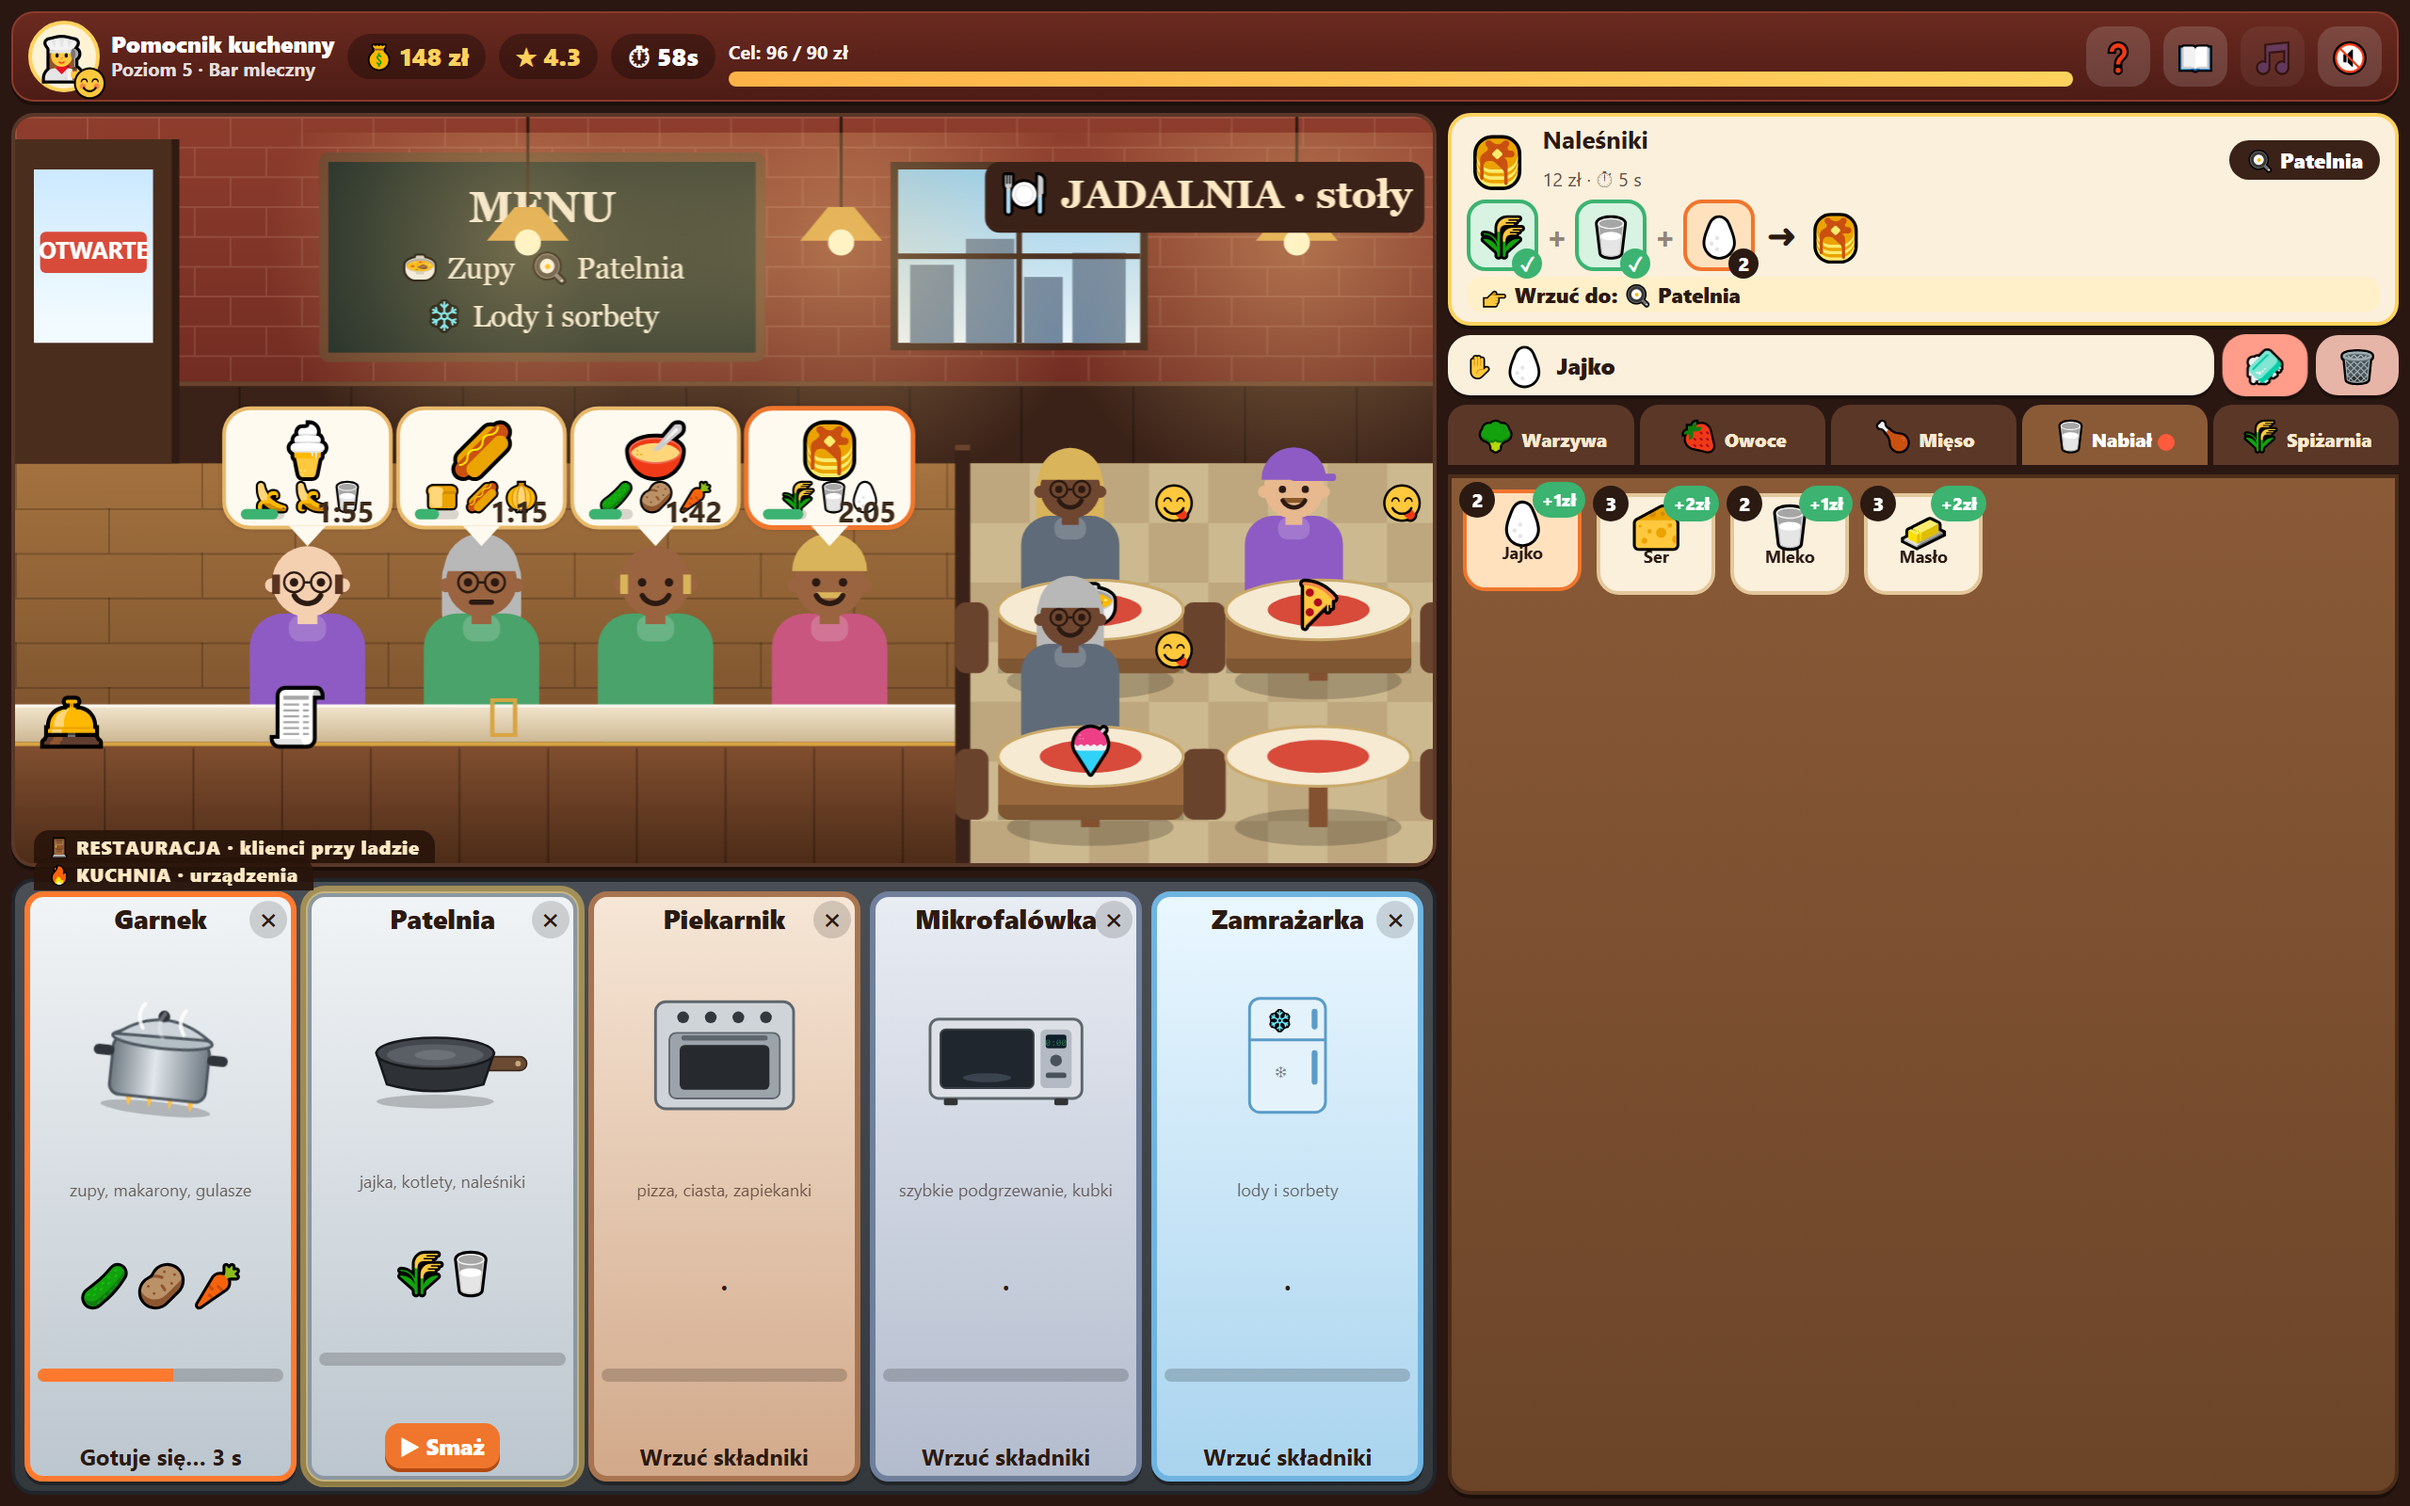
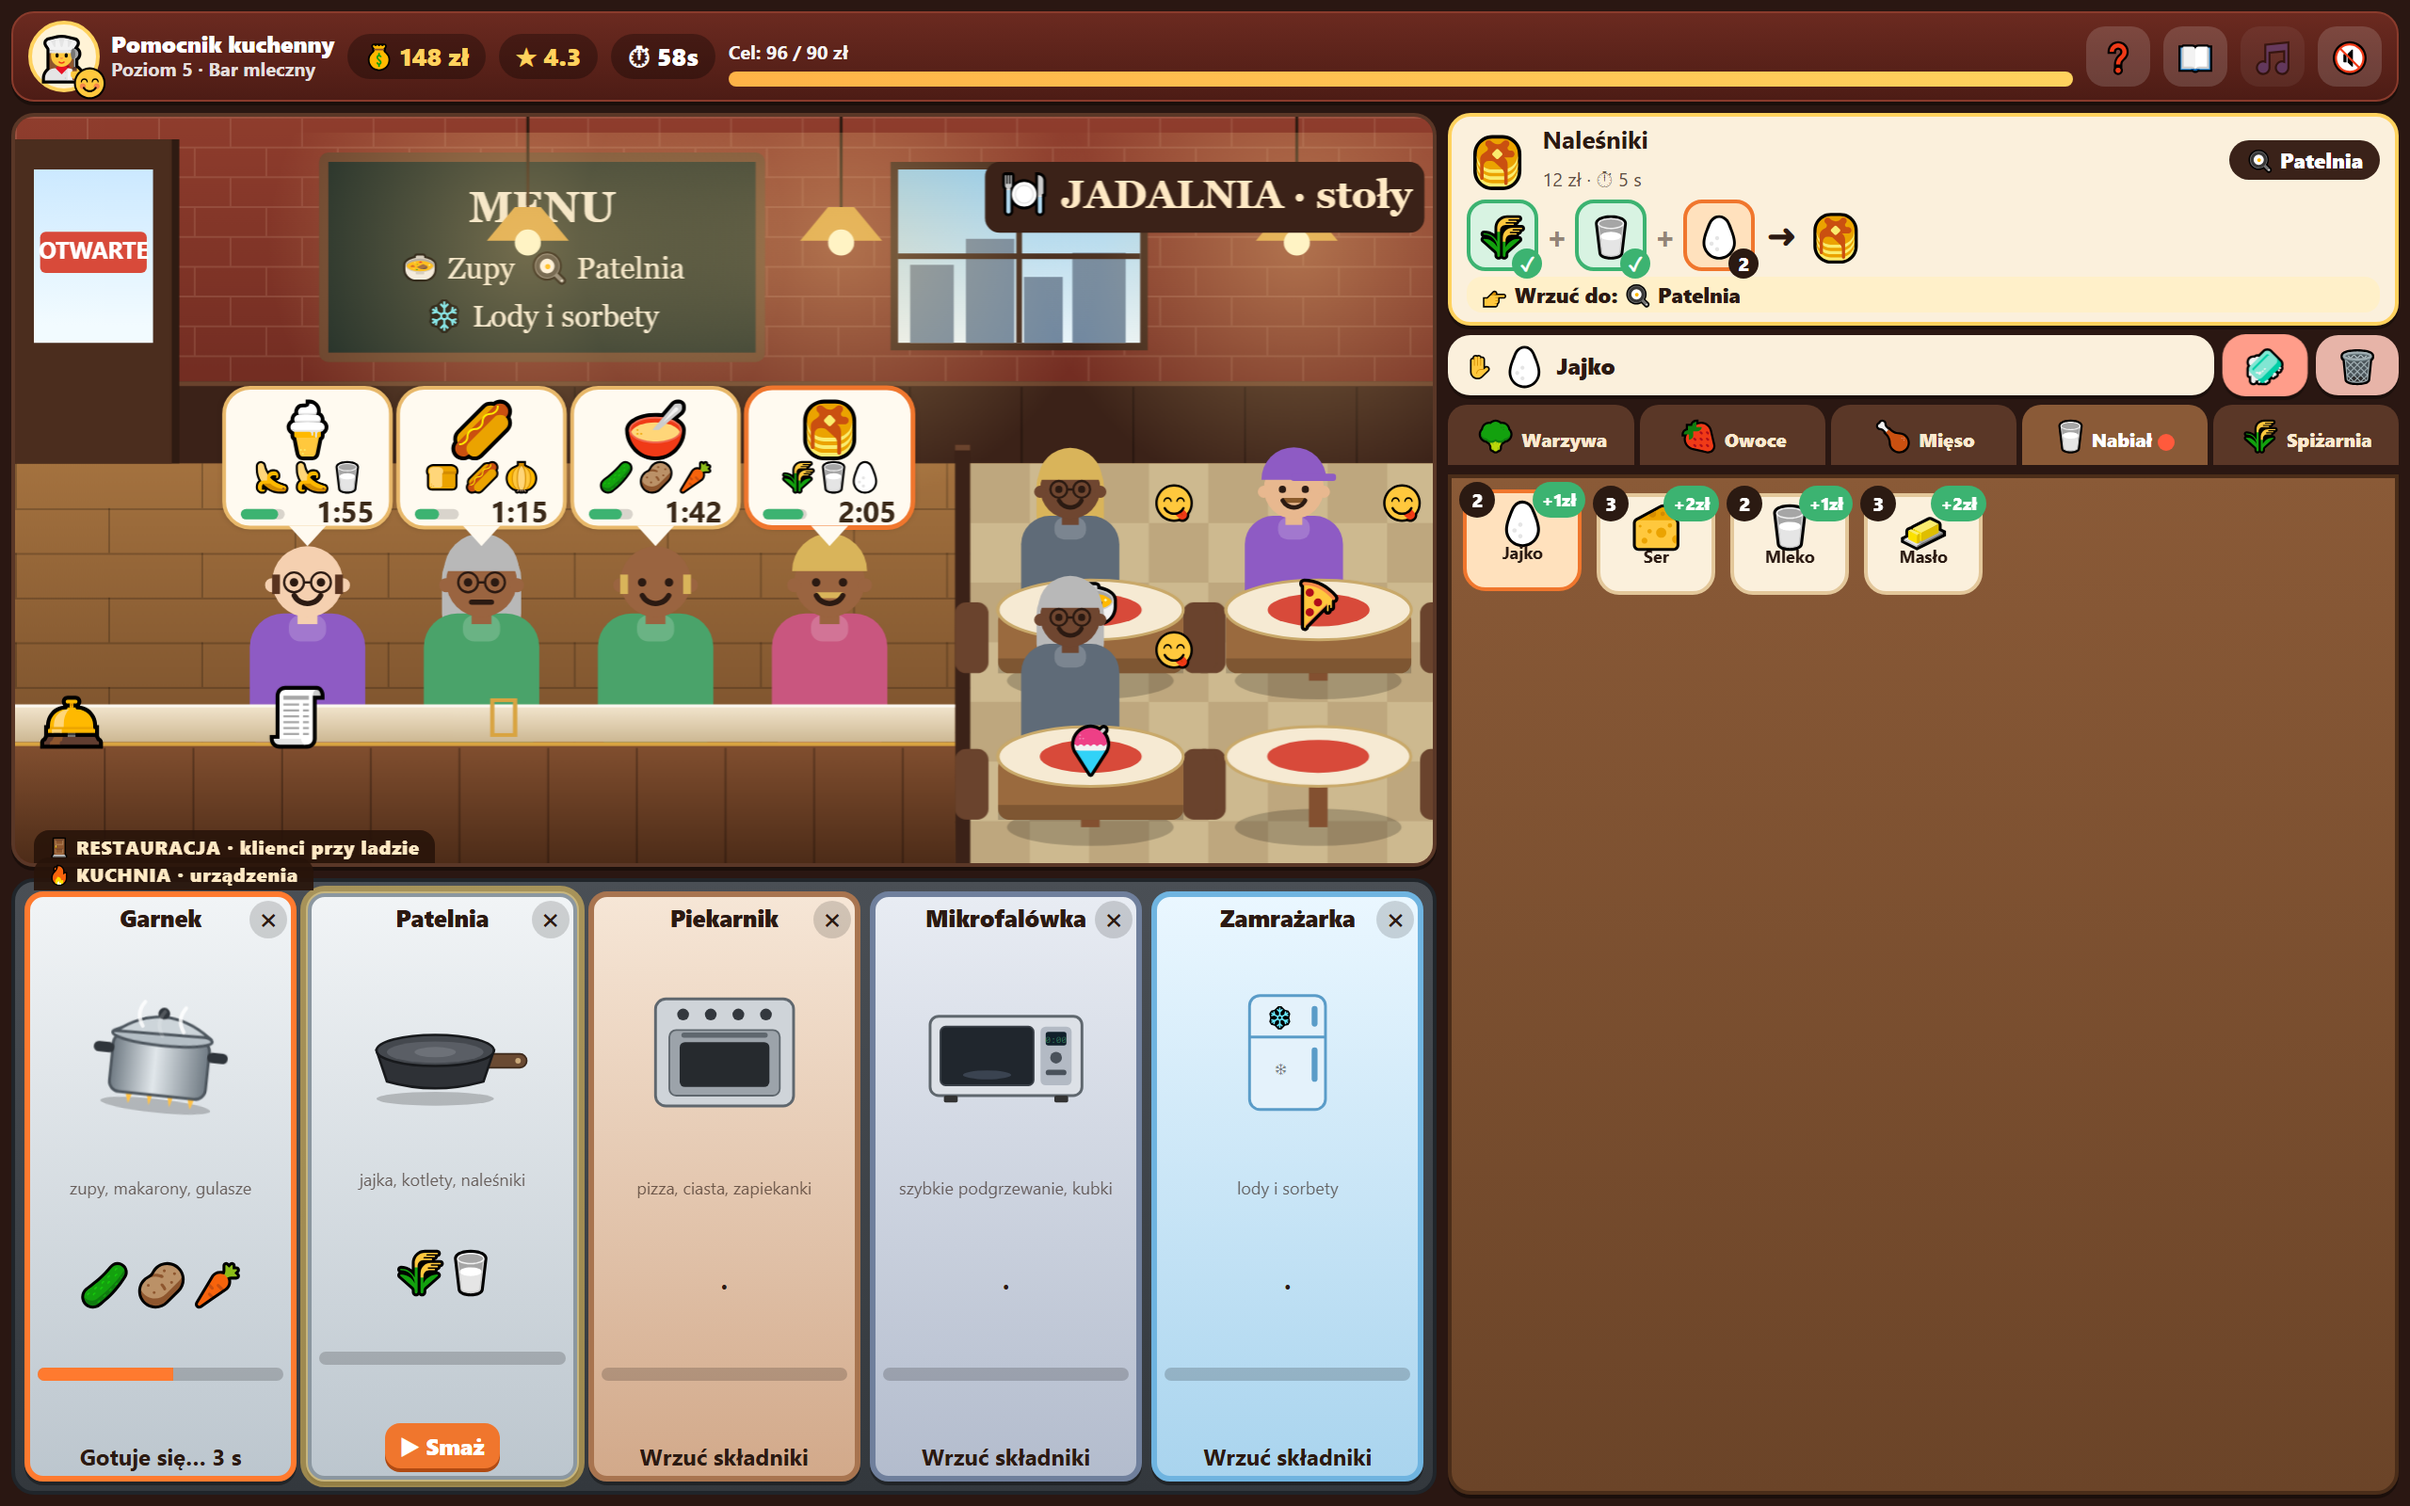
Popraw chmurki zamówień i podpisy urządzeń

diff --git a/gotuj-i-mroz/android/app/src/main/assets/public/index.html b/gotuj-i-mroz/android/app/src/main/assets/public/index.html
@@ -52,7 +52,7 @@ button{font:inherit;color:inherit}
 .st.target{outline:4px solid var(--gold);outline-offset:-1px;animation:glow2 .9s infinite alternate}
 @keyframes pulse{to{transform:scale(1.03)}}
 @keyframes glow2{to{outline-color:rgba(255,210,94,.35)}}
-.st .nm{font-weight:900;font-size:clamp(9px,1.9vh,14px);padding:0 14px;line-height:1.1;text-align:center}
+.st .nm{font-weight:900;font-size:clamp(8px,1.55vh,13px);padding:0 15px;line-height:1.1;text-align:center;white-space:nowrap}
 .st .big{line-height:1;width:100%;display:flex;justify-content:center;align-items:center}
 .st .big svg{width:100%;height:clamp(34px,10.5vh,66px)}
 .bigE{font-size:clamp(28px,8vh,48px)}
@@ -1021,7 +1021,7 @@ function person(c,alpha,dy){
   g.restore();
 }
 function bubble(c){
-  const n=c.orders.length,bw=Math.min(SW*.94,U*(n===2?6.4:4.6)),bh=U*3.2;
+  const n=c.orders.length,bw=Math.min(SW*.94,U*(n===2?6.4:4.6)),bh=U*3.75;
   const bx=Math.max(2,Math.min(W-bw-2,c.x-bw/2)),by=CT-U*3.3-U*.95-U*.5-bh;
   const di=c.orders.findIndex(o=>!o.got);
   const match=S.hand&&S.hand.t==="dish"&&c.orders.some(o=>!o.got&&orderMatches(o,S.hand.dish));

diff --git a/gotuj-i-mroz/index.html b/gotuj-i-mroz/index.html
@@ -52,7 +52,7 @@ button{font:inherit;color:inherit}
 .st.target{outline:4px solid var(--gold);outline-offset:-1px;animation:glow2 .9s infinite alternate}
 @keyframes pulse{to{transform:scale(1.03)}}
 @keyframes glow2{to{outline-color:rgba(255,210,94,.35)}}
-.st .nm{font-weight:900;font-size:clamp(9px,1.9vh,14px);padding:0 14px;line-height:1.1;text-align:center}
+.st .nm{font-weight:900;font-size:clamp(8px,1.55vh,13px);padding:0 15px;line-height:1.1;text-align:center;white-space:nowrap}
 .st .big{line-height:1;width:100%;display:flex;justify-content:center;align-items:center}
 .st .big svg{width:100%;height:clamp(34px,10.5vh,66px)}
 .bigE{font-size:clamp(28px,8vh,48px)}
@@ -1021,7 +1021,7 @@ function person(c,alpha,dy){
   g.restore();
 }
 function bubble(c){
-  const n=c.orders.length,bw=Math.min(SW*.94,U*(n===2?6.4:4.6)),bh=U*3.2;
+  const n=c.orders.length,bw=Math.min(SW*.94,U*(n===2?6.4:4.6)),bh=U*3.75;
   const bx=Math.max(2,Math.min(W-bw-2,c.x-bw/2)),by=CT-U*3.3-U*.95-U*.5-bh;
   const di=c.orders.findIndex(o=>!o.got);
   const match=S.hand&&S.hand.t==="dish"&&c.orders.some(o=>!o.got&&orderMatches(o,S.hand.dish));

diff --git a/gotuj-i-mroz/www/index.html b/gotuj-i-mroz/www/index.html
@@ -52,7 +52,7 @@ button{font:inherit;color:inherit}
 .st.target{outline:4px solid var(--gold);outline-offset:-1px;animation:glow2 .9s infinite alternate}
 @keyframes pulse{to{transform:scale(1.03)}}
 @keyframes glow2{to{outline-color:rgba(255,210,94,.35)}}
-.st .nm{font-weight:900;font-size:clamp(9px,1.9vh,14px);padding:0 14px;line-height:1.1;text-align:center}
+.st .nm{font-weight:900;font-size:clamp(8px,1.55vh,13px);padding:0 15px;line-height:1.1;text-align:center;white-space:nowrap}
 .st .big{line-height:1;width:100%;display:flex;justify-content:center;align-items:center}
 .st .big svg{width:100%;height:clamp(34px,10.5vh,66px)}
 .bigE{font-size:clamp(28px,8vh,48px)}
@@ -1021,7 +1021,7 @@ function person(c,alpha,dy){
   g.restore();
 }
 function bubble(c){
-  const n=c.orders.length,bw=Math.min(SW*.94,U*(n===2?6.4:4.6)),bh=U*3.2;
+  const n=c.orders.length,bw=Math.min(SW*.94,U*(n===2?6.4:4.6)),bh=U*3.75;
   const bx=Math.max(2,Math.min(W-bw-2,c.x-bw/2)),by=CT-U*3.3-U*.95-U*.5-bh;
   const di=c.orders.findIndex(o=>!o.got);
   const match=S.hand&&S.hand.t==="dish"&&c.orders.some(o=>!o.got&&orderMatches(o,S.hand.dish));
